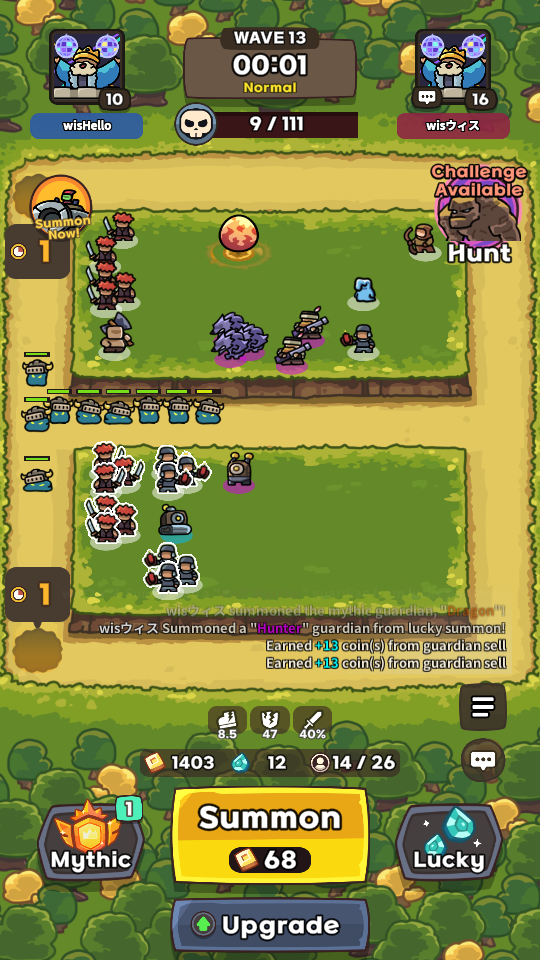
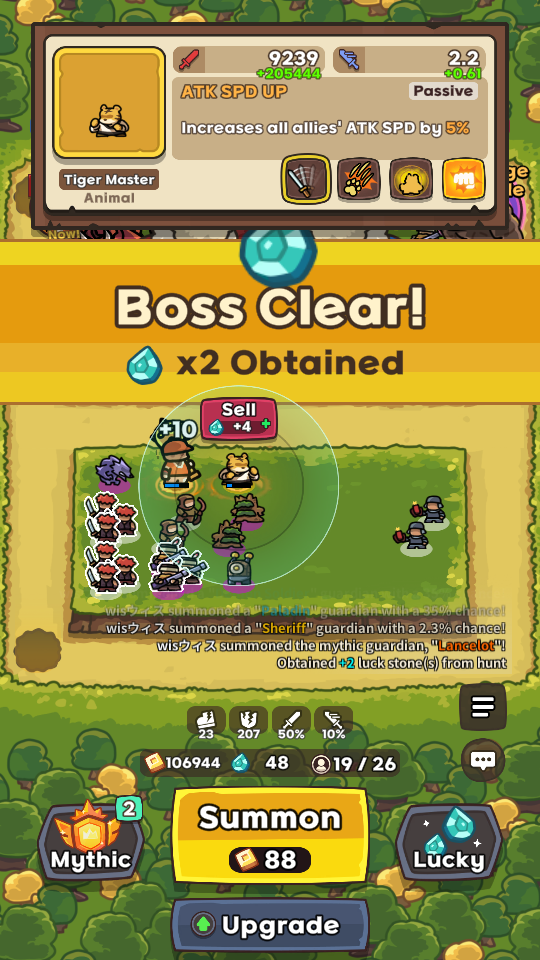
hopefully works na

diff --git a/src/Match/Units/ProcessUnit.java b/src/Match/Units/ProcessUnit.java
@@ -51,6 +51,7 @@ public class ProcessUnit {
     {
         Pattern prio_units;
         prio_units = Pattern.compile("Bandit|Thrower|Hunter|Tree|Electro Robot|Tiger Master");
+        System.out.println("Performing emergency sell");
         for (int i = 0; i < 3; i++) {
             for (int j = 0; j < 6; j++) {
 
@@ -147,15 +148,23 @@ public class ProcessUnit {
             case "Bat Man":
 
                 // CHECK BATMAN FORM, AND IF BAD, THEN UPGRADE
-                if(baseMythic.getForm() != 3 || baseMythic.getForm() != 4)
-                    for(int k = 0; k < 5; k++) { upgradeUnit(i, j); } // UPGRADE FIVE TIMES, TODO : CHANGE THIS ALGORITHM
+                while (baseMythic.form != 3 && baseMythic.form != 4) // UPGRADE 2 TIMES, TODO : CHANGE THIS ALGORITHM
+                {
+                    upgradeUnit(i, j);
+                    upgradeUnit(i, j);
+                    gameboard.updateBoard(i, j);
+                    ProcessUnit.DetectUnitPlusProcess(gameboard, i, j);
+                    baseMythic.setForm(gameboard.getSquare(i, j).getUnit().getForm());
+                }
+
+
                 if(i == 0 && j == 1 || i == 0 && j == 3)
                     break; // IF UNIT IN MOST OPTIMAL POSITION, DO NOT TOUCH
 
                 // CHECK OPTIMAL POSITIONS
-                MythicalUnit unitBatman1 = (MythicalUnit) gameboard.getSquare(0, 1).getUnit();
-                MythicalUnit unitBatman2 = (MythicalUnit) gameboard.getSquare(0, 3).getUnit();
-                MythicalUnit unitBatman3 = (MythicalUnit) gameboard.getSquare(0, 4).getUnit();
+                Unit unitBatman1 =  gameboard.getSquare(0, 1).getUnit();
+                Unit unitBatman2 = gameboard.getSquare(0, 3).getUnit();
+                Unit unitBatman3 = gameboard.getSquare(0, 4).getUnit();
 
                 // MOVE UNITS TO OPTIMAL POSITION IF NO OPTIMAL UNIT FOUND
                 if(!unitBatman1.getName().equals("Bat Man"))
@@ -229,12 +238,12 @@ public class ProcessUnit {
                     gameboard = sellUnit(gameboard, i, j);
                 break;
             case "Tiger Master":
-                if(MythicBuilder.canBuild("Bat Man", gameboard)) {
-                    MatchBasic.pressAnywhere();
-                    Thread.sleep(750);
-                    MatchBasic.pressBuildFavoriteMythic();
-                    break;
-                }
+//                if(MythicBuilder.canBuild("Bat Man", gameboard)) {
+//                    MatchBasic.pressAnywhere();
+//                    Thread.sleep(750);
+//                    MatchBasic.pressBuildFavoriteMythic();
+//                    break;
+//                }
 
                 if(i == 0 && j == 0)
                     break; // IF UNIT IN MOST OPTIMAL POSITION, DO NOT MOVE
@@ -349,12 +358,12 @@ public class ProcessUnit {
                 }
                 break;
             case "Tree":
-                if(MythicBuilder.canBuild("Bat Man", gameboard)) {
-                    MatchBasic.pressAnywhere();
-                    Thread.sleep(750);
-                    MatchBasic.pressBuildFavoriteMythic();
-                    break;
-                }
+//                if(MythicBuilder.canBuild("Bat Man", gameboard)) {
+//                    MatchBasic.pressAnywhere();
+//                    Thread.sleep(750);
+//                    MatchBasic.pressBuildFavoriteMythic();
+//                    break;
+//                }
 
                 if((i == 1 && j == 3))
                     break; // IF UNIT IN OPTIMAL POSITION, DO NOT TOUCH
@@ -466,12 +475,12 @@ public class ProcessUnit {
                 break;
 
             case "Thrower":
-                if(MythicBuilder.canBuild("Bat Man", gameboard)) {
-                    MatchBasic.pressAnywhere();
-                    Thread.sleep(750);
-                    MatchBasic.pressBuildFavoriteMythic();
-                    break;
-                }
+//                if(MythicBuilder.canBuild("Bat Man", gameboard)) {
+//                    MatchBasic.pressAnywhere();
+//                    Thread.sleep(750);
+//                    MatchBasic.pressBuildFavoriteMythic();
+//                    break;
+//                }
 
                 if(i == 2 && j == 3) {
                     break; // IF UNIT IN MOST OPTIMAL POSITION, DO NOT TOUCH

diff --git a/src/Match/PlayGame.java b/src/Match/PlayGame.java
@@ -17,30 +17,35 @@ public class PlayGame {
     private static DateTimeFormatter dtf = DateTimeFormatter.ofPattern("HH:mm:ss");
 
     public static void playGame(MainFrame mainFrame) throws IOException, InterruptedException {
-        ButtonsHome.pressBattle();
-        Thread.sleep(2000);
-        ButtonsHome.pressWithFriend();
-        Thread.sleep(2000);
-        ButtonsHome.pressCreateRoom();
-
-        // WAIT FOR LOADING
-        appendColoredText(mainFrame,"Waiting for game...", "red");
-        while(MatchBasic.isInLobby()) { Screenshot.screenshotGameState(); }
-        while(MatchBasic.isFindingMatch()) { Screenshot.screenshotGameState(); }
-        while(MatchBasic.isLoading()) { Screenshot.screenshotGameState(); }
-
-        // START OF GAME
-        waitFor90(mainFrame);
+//        ButtonsHome.pressBattle();
+//        Thread.sleep(2000);
+//        ButtonsHome.pressWithFriend();
+//        Thread.sleep(2000);
+//        ButtonsHome.pressCreateRoom();
+//
+//        // WAIT FOR LOADING
+//        appendColoredText(mainFrame,"Waiting for game...", "red");
+//        while(MatchBasic.isInLobby()) { Screenshot.screenshotGameState(); }
+//        while(MatchBasic.isFindingMatch()) { Screenshot.screenshotGameState(); }
+//        while(MatchBasic.isLoading()) { Screenshot.screenshotGameState(); }
+//
+//        // START OF GAME
+//        waitFor90(mainFrame);
         GameBoard gameBoard = new GameBoard();
         Screenshot.screenshotGameState();
 
         // GAME LOOP
         while(MatchBasic.isIngame()) {
             gameBoard = processBoard(gameBoard);
+            if(MythicBuilder.canBuild("Bat Man", gameBoard)) {
+                MatchBasic.pressAnywhere();
+                Thread.sleep(750);
+                MatchBasic.pressBuildFavoriteMythic();
+            }
             gambleStones(gameBoard);
             waitForGolem(mainFrame);
 
-            if(MatchBasic.checkIfMax()) { ProcessUnit.emergencySell(gameBoard); }
+            if(MatchBasic.checkIfMax()) { ProcessUnit.emergencySell(gameBoard);System.out.println("Emergency sell executing"); }
 
             spamSummon(gameBoard);
             gameBoard.saveBoardState();
@@ -78,7 +83,7 @@ public class PlayGame {
         for(int i = 0; i < 3; i++) {
             for(int j = 0; j < 6; j++) {
                 gameBoard.updateBoard(i, j);
-
+                checkForRewards();
                 if(!(gameBoard.getSquare(i, j).getUnit().getName() == null))
                     ProcessUnit.DetectUnitPlusProcess(gameBoard, i, j);
             }
@@ -106,11 +111,19 @@ public class PlayGame {
 
         MatchBasic.closeUpgrade();
     }
+    public static void checkForRewards() throws IOException, InterruptedException {
 
+        Screenshot.screenshotGameState();
+        if(MatchBasic.isBossClear()) {
+            MatchBasic.pressMostRight();
+            Thread.sleep(1000);
+            MatchBasic.pressSelect();
+        }
+    }
     private static void gambleStones(GameBoard gameBoard) throws InterruptedException, IOException {
         MatchBasic.closeUpgrade();
         Thread.sleep(500);
-
+        checkForRewards();
         Screenshot.screenshotGameState();
         if(MatchBasic.checkIfMax())
             ProcessUnit.emergencySell(gameBoard);

diff --git a/src/Match/MatchBasic.java b/src/Match/MatchBasic.java
@@ -50,7 +50,7 @@ public class MatchBasic {
         int tolerance = 10;
 
         for(Coordinates coordinates1 : coordinates) {
-            if(PixelColorChecker.checkColorMatch(coordinates1, expectedColor, screenshotPath, tolerance));
+            if(PixelColorChecker.checkColorMatch(coordinates1, expectedColor, screenshotPath, tolerance))
                 return true;
         }
 
@@ -242,7 +242,23 @@ public class MatchBasic {
 
         return luckyStonesValue;
     }
+    public static boolean isBossClear() throws IOException {
+        Screenshot.screenshotGameState();
+        Coordinates coordinates = new Coordinates(0, 0);
+        Color expectedColor = new Color(92, 81, 62);
+        String screenshotPath = "Resources/GameState.png";
+        int tolerance = 5;
 
+        return PixelColorChecker.checkColorMatch(coordinates, expectedColor, screenshotPath, tolerance);
+    }
+    public static void pressSelect() throws IOException {
+        Press.press(new Coordinates(172, 633), new Coordinates(367, 714), "Confirming selection...");
+        Screenshot.screenshotGameState();
+    }
+    public static void pressMostRight() throws IOException {
+        Press.press(new Coordinates(363, 314), new Coordinates(493, 479), "Selecting most right...");
+        Screenshot.screenshotGameState();
+    }
     public static boolean checkIfMax() throws InterruptedException, IOException {
         pressGamble();
         Thread.sleep(1500);
@@ -291,6 +307,7 @@ public class MatchBasic {
 
         // Initialize Tesseract
         Tesseract tesseract = new Tesseract();
+        tesseract.setTessVariable("tessedit_char_whitelist", "0123456789/");
         tesseract.setDatapath("lib/Tess4j/tessdata"); // Set the path to the tessdata directory
         tesseract.setLanguage("eng"); // Set the language you want to use
 
@@ -308,7 +325,7 @@ public class MatchBasic {
             return extractedText.trim();
         } catch (NumberFormatException e) {
             e.printStackTrace();
-            return ""; // or some default value/error code
+            return "0"; // or some default value/error code
         }
     }
 

diff --git a/src/Match/GameBoard/GameBoard.java b/src/Match/GameBoard/GameBoard.java
@@ -195,15 +195,12 @@ public class GameBoard {
         // Generate a random cell within the given top left and bottom right coordinates
         Coordinates sellRandomCoordinates = Coordinates.makeRandomCoordinate(sellTopLeft[i][j], sellBottomRight[i][j]);
 
-        // click unit
-        System.out.println("Clicking the unit at: " + fromRandomCoordinates);
-        Process process1 = Runtime.getRuntime().exec("adb shell input tap " + fromRandomCoordinates.getX() + " " + fromRandomCoordinates.getY());
-        Thread.sleep(500);
 
         // click sell
         System.out.println("Selling the unit at: " + sellRandomCoordinates);
-        Process process2 = Runtime.getRuntime().exec("adb shell input tap " + sellRandomCoordinates.getX() + " " + sellRandomCoordinates.getY());
         Thread.sleep(500);
+        Process process2 = Runtime.getRuntime().exec("adb shell input tap " + sellRandomCoordinates.getX() + " " + sellRandomCoordinates.getY());
+
 
         gameboard = gameboard.updateGameBoard(gameboard, i, j, i, j);
 
@@ -237,15 +234,11 @@ public class GameBoard {
         // Generate a random cell within the given top left and bottom right coordinates
         Coordinates mergeRandomCoordinates = Coordinates.makeRandomCoordinate(mergeTopLeft[i][j], mergeBottomRight[i][j]);
 
-        // click unit
-        System.out.println("Clicking the unit to merge at: " + fromRandomCoordinates);
-        Process process1 = Runtime.getRuntime().exec("adb shell input tap " + fromRandomCoordinates.getX() + " " + fromRandomCoordinates.getY());
-        Thread.sleep(500);
 
         //Click merge
         System.out.println("Merging the unit at: " + mergeRandomCoordinates);
-        Process process2 = Runtime.getRuntime().exec("adb shell input tap " + mergeRandomCoordinates.getX() + " " + mergeRandomCoordinates.getY());
         Thread.sleep(500);
+        Process process2 = Runtime.getRuntime().exec("adb shell input tap " + mergeRandomCoordinates.getX() + " " + mergeRandomCoordinates.getY());
 
         // TODO : UPDATE GAMEBOARD AFTER MERGING
     }

diff --git a/src/Match/MythicBuilder.java b/src/Match/MythicBuilder.java
@@ -113,7 +113,7 @@ public class MythicBuilder {
     private static Map<String, Integer> getRequirementsForUnit(String name) {
         Map<String, Integer> requirements = new HashMap<>();
         switch (name) {
-            case "BatMan":
+            case "Bat Man":
                 requirements.put("Tiger Master", 1);
                 requirements.put("Tree", 1);
                 requirements.put("Thrower", 2);

diff --git a/src/Match/Units/Unit.java b/src/Match/Units/Unit.java
@@ -13,7 +13,7 @@ import java.io.IOException;
 public class Unit {
     protected String name;
     protected int quantity;
-    protected int form;
+    public int form;
     // protected int value;
 
     public Unit() {

diff --git a/src/Match/Units/MythicalUnit.java b/src/Match/Units/MythicalUnit.java
@@ -91,5 +91,5 @@ public class MythicalUnit extends Unit {
         return temp;
     }
 
-    public void setForm(int i) { form = 1; }
+    public void setForm(int i) { form = i; }
 }
